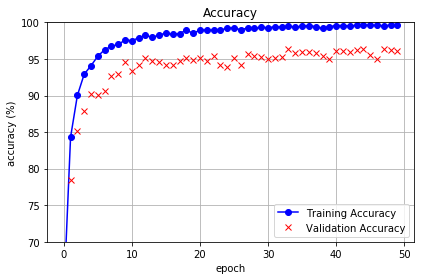
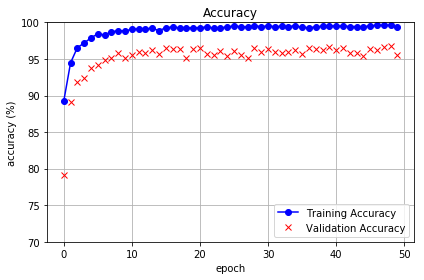
update

Changed region(s): [[0.1226, 0.0571, 0.9505, 0.8571]]

diff --git a/CarND-Traffic-Sign-Classifier-Project/Traffic_Sign_Recognition.md b/CarND-Traffic-Sign-Classifier-Project/Traffic_Sign_Recognition.md
@@ -13,12 +13,16 @@ The goals / steps of this project are the following:
 
 [//]: # (Image References)
 
-[image1]: ./figs/6_label_distribution.png "Distribution"
-[image2]: ./figs/7_argumentation.png "Argumentation"
-[image3]: ./figs/6_label_distribution_2.png "New Distribution"
-[image4]: ./figs/LeNet-5.png "LeNet"
+[image1]: ./figs/1_all_traffic_signs.png "All signs"
+[image2]: ./figs/6_label_distribution.png "Distribution"
+[image3]: ./figs/7_argumentation.png "Argumentation"
+[image4]: ./figs/6_label_distribution_2.png "New Distribution"
+[image5]: ./figs/LeNet-5.png "LeNet"
+[image6]: ./figs/2_LeNet_model_accuracy.png "LeNet Accuracy"
+[image7]: ./figs/4_new_images.png "New images"
 
 
+<!-- 
 [image2]: ./examples/grayscale.jpg "Grayscaling"
 [image3]: ./examples/random_noise.jpg "Random Noise"
 [image4]: ./examples/placeholder.png "Traffic Sign 1"
@@ -26,6 +30,7 @@ The goals / steps of this project are the following:
 [image6]: ./examples/placeholder.png "Traffic Sign 3"
 [image7]: ./examples/placeholder.png "Traffic Sign 4"
 [image8]: ./examples/placeholder.png "Traffic Sign 5"
+ -->
 
 ---
 ### Writeup and Code
@@ -47,36 +52,80 @@ Pandas library is used to calculate summary statistics of the traffic signs data
 
 #### 2. Exploratory visualization of the dataset
 
+The type and the image labels of German traffic signs included in the training dataset are listed below:
+
+| ClassId         		 |     Sign Name and Description	      			| 
+|:----------------------:|:------------------------------------------------:| 
+| 	0	         		 |Speed limit (20km/h)	      						| 
+| 	1	         		 |Speed limit (30km/h)	      						| 
+| 	2	         		 |Speed limit (50km/h)	      						| 
+| 	3	         		 |Speed limit (60km/h)	      						| 
+| 	4	         		 |Speed limit (70km/h)	      						| 
+| 	5	         		 |Speed limit (80km/h)	      						| 
+| 	6	         		 |End of speed limit (80km/h)	      						| 
+| 	7	         		 |Speed limit (100km/h)	      						| 
+| 	8	         		 |Speed limit (120km/h)	      						| 
+| 	9	         		 |No passing	      								| 
+| 	10	         		 |No passing for vehicles over 3.5 metric tons	    | 
+| 	11	         		 |Right-of-way at the next intersection	      		| 
+| 	12	         		 |Priority road	      								| 
+| 	13	         		 |Yield	      										| 
+| 	14	         		 |Stop	      										| 
+| 	15	         		 |No vehicles	      								| 
+| 	16	         		 |Vehicles over 3.5 metric tons prohibited			|	
+| 	17	         		 |No entry	      									| 
+| 	18	         		 |General caution	      							| 
+| 	19	         		 |Dangerous curve to the left	      				| 
+| 	20	         		 |Dangerous curve to the right	      				| 
+| 	21	         		 |Double curve	      								| 
+| 	22	         		 |Bumpy road	      								| 
+| 	23	         		 |Slippery road	      								| 
+| 	24	         		 |Road narrows on the right	      					| 
+| 	25	         		 |Road work	      									| 
+| 	26	         		 |Traffic signals	      							| 
+| 	27	         		 |Pedestrians	      								| 
+| 	28	         		 |Children crossing	      							| 
+| 	29	         		 |Bicycles crossing	      							| 
+| 	30	         		 |Beware of ice/snow	      						| 
+| 	31	         		 |Wild animals crossing	      						| 
+| 	32	         		 |End of all speed and passing limits	      		| 
+| 	33	         		 |Turn right ahead	   								| 
+| 	34	         		 |Turn left ahead	   								| 
+| 	35	         		 |Ahead only	      								| 
+| 	36	         		 |Go straight or right								| 
+| 	37	         		 |Go straight or left								| 
+| 	38	         		 |Keep right	     								| 
+| 	39	         		 |Keep left	      									| 
+| 	40	         		 |Roundabout mandatory	      						| 
+| 	41	         		 |End of no passing	      							| 
+| 	42	         		 |End of no passing by vehicles over 3.5 metric ...	| 
+
+The figure below listed one image for each traffic sign type in the training data set.
+![All traffic signs][image1]
+
 Below is a histogram chart showing how the number of training data set labels are distributed. 
 The x axis shows the sign label, while the height of each bin shows the number of images for each label. 
 It's clear the data sampling distribution is uneven among diffrent traffic signs, with the largest number 
 is roughly 10 times larger than the smallest one. This non-uniform distribution will affect the accuracy 
 for these under-sampled signs.
 
-![distribution of traffic sign labels][image1]
+![distribution of traffic sign labels][image2]
+
+
+
 
 ### Design and Test a Model Architecture
 
 #### 1. Image data preprocess
-
-<!-- 
-Describe how you preprocessed the image data. 
-What techniques were chosen and why did you choose these techniques? 
-Consider including images showing the output of each preprocessing technique. 
-Pre-processing refers to techniques such as converting to grayscale, normalization, etc. 
-(OPTIONAL: As described in the "Stand Out Suggestions" part of the rubric, 
-if you generated additional data for training, describe why you decided to generate additional data, 
-how you generated the data, and provide example images of the additional data. 
-Then describe the characteristics of the augmented training set like number of images in the set, 
-number of images for each class, etc.)
- -->
 
 Since the traffic sign in the training data distribution is highly non-uniform, under-sampled image 
 data need to be added to avoid loss in accuracy. One way to add more data to the under-sampled data 
 is to collect more. Another way to do is use the argumentation technique.
 
 Python package [Augmentor](http://augmentor.readthedocs.io/en/master/) is used to artificially generate image data
-with operations like rotate, flip, zoom. Here is a few examples of augmented Stop Sign images:
+with operations like rotate, flip, zoom. Here is a few examples of augmented Stop Sign images 
+(in the actual data preprocessing, the flip/mirror operation is not used, since the stop sign does not possess 
+mirror symmetry). 
 
 ![Data argumentation][image2]
 
@@ -101,58 +150,65 @@ the gradient descent converges much faster than the data that is not normalized.
 looks like including model type, layers, layer sizes, connectivity, etc.) 
 Consider including a diagram and/or table describing the final model.
  -->
+ 
+LeNet is a great deep network architecture for image recognition.
+It's a good starting point to build the model on.
 
 ![LeNet-5 Architecture][image4]
 
+Final model consisted of the following layers:
 
-My final model consisted of the following layers:
+| Layer         		 |     Description	        					| 
+|:----------------------:|:--------------------------------------------:| 
+| Input         		 | 32x32x3 RGB image   							| 
+| Convolution  3x3 	     | 1x1 stride, valid padding, outputs 28x28x6 	|
+| RELU					 |												|
+| Max pooling	      	 | 2x2 stride, outputs 14x14x6  				|
+| Convolution 3x3	     | 1x1 stride, valid padding, outputs 10x10x16	|
+| RELU					 |												|
+| Max pooling	      	 | 2x2 stride, outputs 5x5x16   				|
+| Flatten layer      	 | outputs 400 									|
+| Fully connected layer 1| outputs 120 									|
+| RELU					 |												|
+| Fully connected layer 2| outputs 84  									|
+| RELU					 |												|
+| Fully connected layer 3| outputs 10  									|
+| Softmax				 | probability distribution of traffic signs   	|
 
-| Layer         		|     Description	        					| 
-|:---------------------:|:---------------------------------------------:| 
-| Input         		| 32x32x3 RGB image   							| 
-| Convolution 3x3     	| 1x1 stride, same padding, outputs 32x32x64 	|
-| RELU					|												|
-| Max pooling	      	| 2x2 stride,  outputs 16x16x64 				|
-| Convolution 3x3	    | etc.      									|
-| Fully connected		| etc.        									|
-| Softmax				| etc.        									|
-|						|												|
-|						|												|
- 
+#### 3. Train the model
 
+To train the model, I used AdamOptimizer. The following hyperparameters are used: batch size 128, learning rate 0.001. 
+Training was repeated with 50 epochs. 
 
-#### 3. Describe how you trained your model. The discussion can include the type of optimizer, the batch size, number of epochs and any hyperparameters such as learning rate.
+#### 4. Approach to find a solution
+With the choice of LeNet, the initial accuracy on the validation data is about 84%. With image data normalization,
+the validation accuracy improves to ~90%. 
+![LeNet Accuracy][image5]
 
-To train the model, I used an ....
+Even though the accuracy on the training set is high (surpasses 99% after just 10 epochs),  but the validation 
+data set accuracy is low, indicating overfitting.
 
-#### 4. Describe the approach taken for finding a solution and getting the validation set accuracy to be at least 0.93. Include in the discussion the results on the training, validation and test sets and where in the code these were calculated. Your approach may have been an iterative process, in which case, outline the steps you took to get to the final solution and why you chose those steps. Perhaps your solution involved an already well known implementation or architecture. In this case, discuss why you think the architecture is suitable for the current problem.
+Overfitting can be solved in a few ways, one is to add more data to make the model recognized more images in the 
+hope to make it more make more generalized decision. We have already used the argumentation technique mentioned above to achieve this.
+Another way is to apply regularization. After apply dropout regularization on each convolution and fully connected layers 
+(not on the final output layer) with keep_prob = 0.6, the validation accuracy improves to more than 95%.
 
 My final model results were:
-* training set accuracy of ?
-* validation set accuracy of ? 
-* test set accuracy of ?
-
-If an iterative approach was chosen:
-* What was the first architecture that was tried and why was it chosen?
-* What were some problems with the initial architecture?
-* How was the architecture adjusted and why was it adjusted? Typical adjustments could include choosing a different model architecture, adding or taking away layers (pooling, dropout, convolution, etc), using an activation function or changing the activation function. One common justification for adjusting an architecture would be due to overfitting or underfitting. A high accuracy on the training set but low accuracy on the validation set indicates over fitting; a low accuracy on both sets indicates under fitting.
-* Which parameters were tuned? How were they adjusted and why?
-* What are some of the important design choices and why were they chosen? For example, why might a convolution layer work well with this problem? How might a dropout layer help with creating a successful model?
-
-If a well known architecture was chosen:
-* What architecture was chosen?
-* Why did you believe it would be relevant to the traffic sign application?
-* How does the final model's accuracy on the training, validation and test set provide evidence that the model is working well?
- 
+* training set accuracy of 99.3%
+* validation set accuracy of 95.6%
+* test set accuracy of 94.2% 
 
 ### Test a Model on New Images
 
-#### 1. Choose five German traffic signs found on the web and provide them in the report. For each image, discuss what quality or qualities might be difficult to classify.
+#### 1. German traffic signs found on the web 
 
-Here are five German traffic signs that I found on the web:
+<!-- 
+For each image, discuss what quality or qualities might be difficult to classify.
+ -->
 
-![alt text][image4] ![alt text][image5] ![alt text][image6] 
-![alt text][image7] ![alt text][image8]
+Here are 20 German traffic signs that I found on the web:
+
+![New images found on the web][image5]
 
 The first image might be difficult to classify because ...
 
